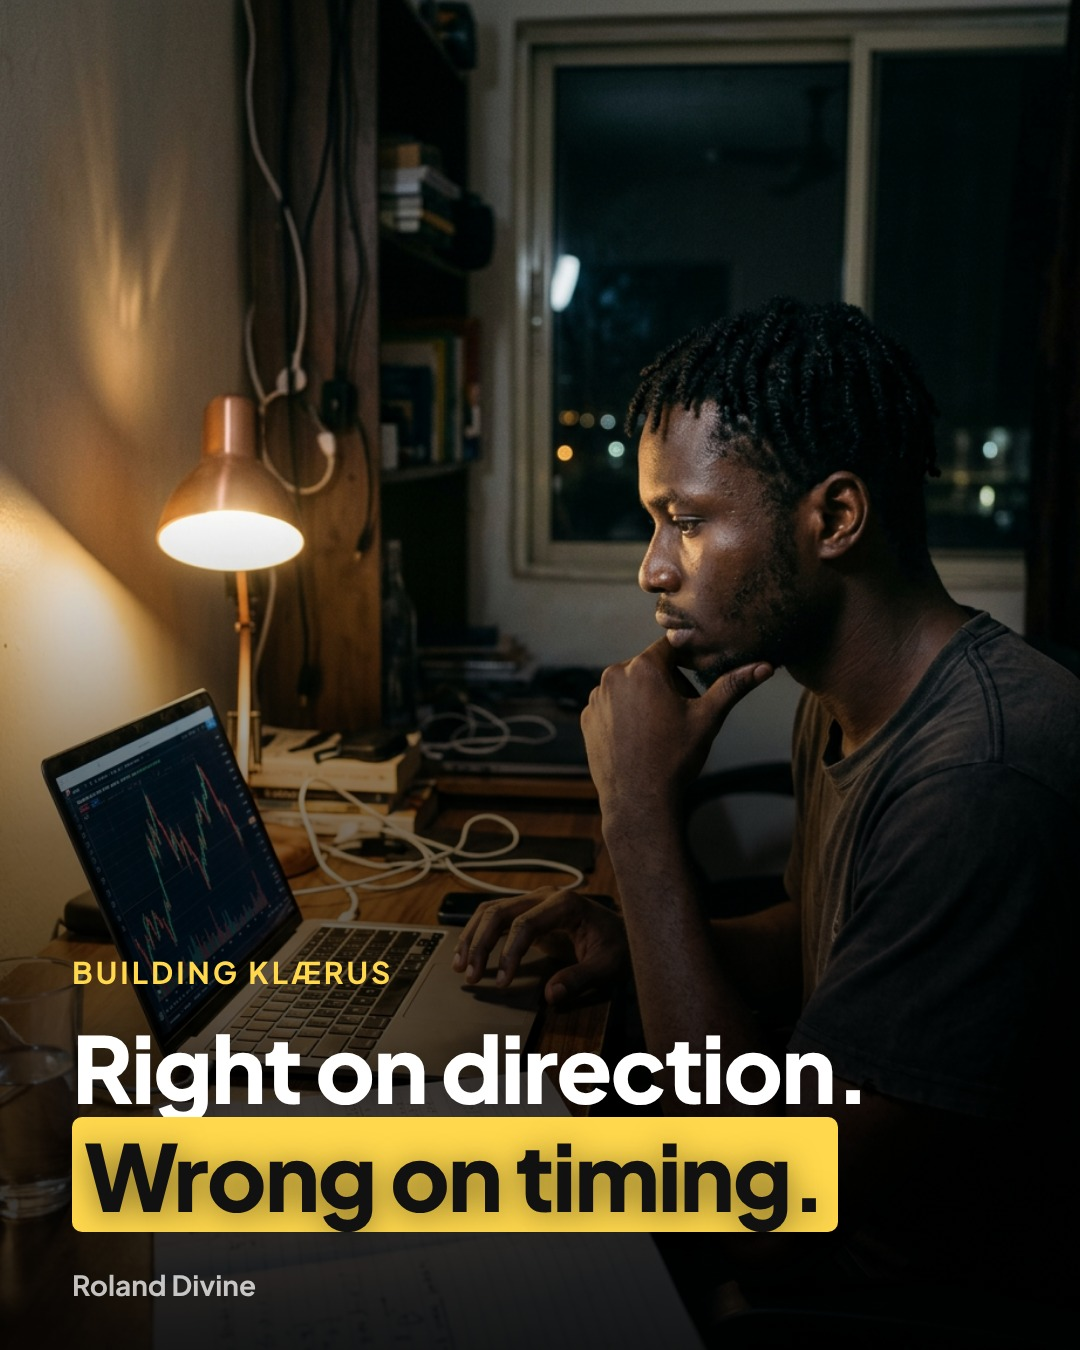
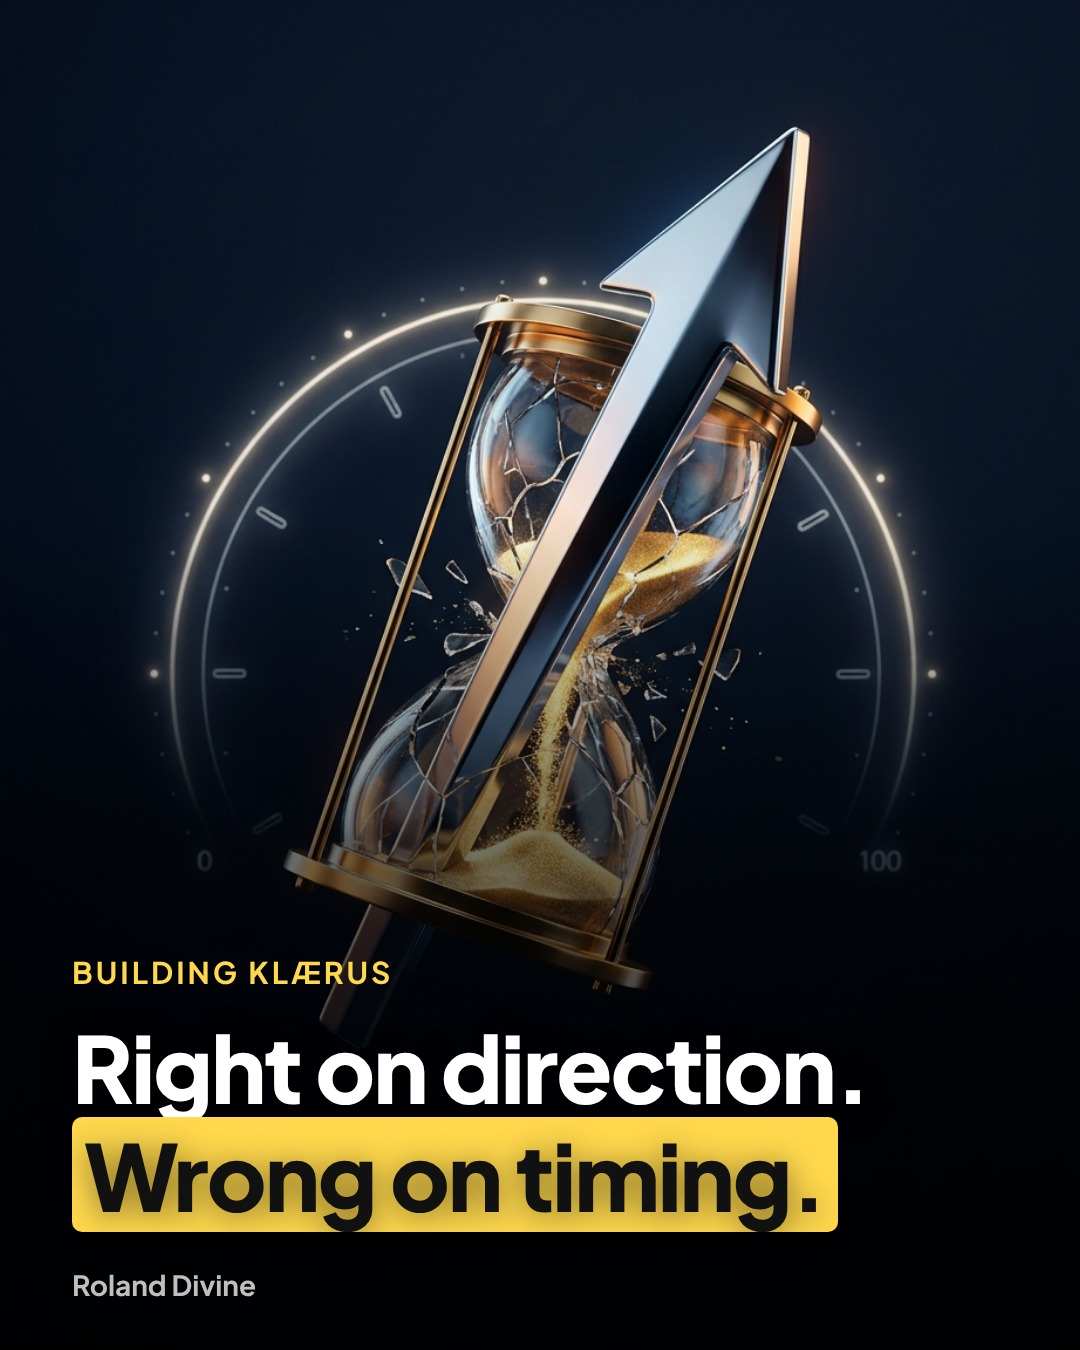
Wed 28 Oct: abstract cover for the Klaerus LinkedIn post
Claude-Session: https://claude.ai/code/session_011gr5W81895y5ipiRdQPMjs

diff --git a/studio/days/day14.py b/studio/days/day14.py
@@ -1,6 +1,6 @@
 """Day 14 · Wed 28 Oct 2026. Run from studio/:  python days/day14.py
 08:00 Instagram: how to spot a fake bank credit alert (Nigeria). Abstract Figma cover (Roland, 27 Oct: back to abstract covers).
-08:00 LinkedIn: Klærus story (Roland, 27 Oct: storytelling, Klærus leads). Hook rides the trending prediction-market news
+08:00 LinkedIn (abstract cover, Roland 27 Oct): Klærus story (Roland, 27 Oct: storytelling, Klærus leads). Hook rides the trending prediction-market news
       (US midterms 3 Nov; Google Finance now shows Kalshi/Polymarket odds). Facts only from /areas/klaerus.md. No pitch.
 12:00 Reel (videos.yml): address poisoning part 2. 18:00 Kobo part 11 (stories).
 21:00 story = simple call to action, not a teaser.
@@ -99,7 +99,7 @@ def build():
     media = ["instagram/alert-0.jpg"] + [f"instagram/{Path(p).name}" for p in rest]
     alt = ["Abstract image: a glass phone whose green bank notification is peeling off like a sticker. Text: That credit alert might be fake. Check this first."] + \
           ["Chat: " + " ".join(re.sub(r"[*=]", "", t).replace("\n", ", ") for _, t in s) for s in slides]
-    cover(GEN / "people-trader-night.png", li_hook, MEDIA / "klaerus-cover.jpg", kicker="Building Klærus", handle="Roland Divine", swipe=False)
+    cover(GEN / "arrow-hourglass.png", li_hook, MEDIA / "klaerus-cover.jpg", kicker="Building Klærus", handle="Roland Divine", swipe=False)
     (Q / "0800.json").write_text(json.dumps({
         "title": "How to: spot a fake bank credit alert + Klærus story", "kind": "lesson", "x": {"enabled": False},
         "linkedin": {"enabled": True, "text": li, "media": "media/klaerus-cover.jpg"},
